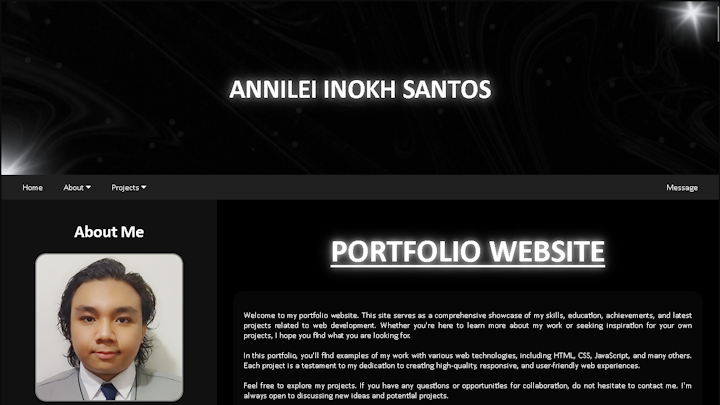
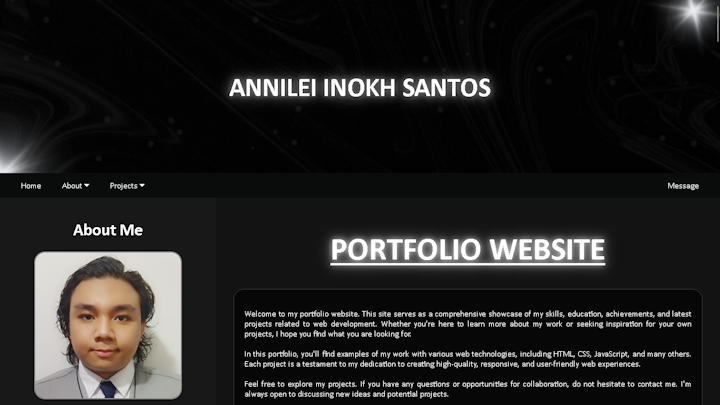
Add files via upload

diff --git a/style.css b/style.css
@@ -7,26 +7,6 @@ html {
   background-color: black;
 }
 
-/* Base container styling */
-.main-container {
-  margin: 0 auto;
-  padding: 3px;
-  max-width: 100%;
-  background-color: rgb(12, 12, 12); /* Dark background color *//
-}
-
-/* Responsive max-widths */
-@media (max-width: 480px) {
-  .main-container {
-    max-width: 100%; /* Full width for small screens */
-  }
-}
-
-@media (min-width: 481px) and (max-width: 768px) {
-  .main-container {
-    max-width: 100%; /* Max width for tablets */
-  }
-}
 
 a {
   color: rgb(0, 183, 255);
@@ -85,7 +65,7 @@ body {
 /* Style the top navigation bar */
 .navbar {
   overflow: hidden;
-  background-color: rgb(32, 32, 32);
+  background-color: #0a0b0b;
   width: 100%;
   box-sizing: border-box;
   margin: 0 auto;
@@ -184,7 +164,7 @@ body {
 /* Sidebar/left column */
 .side {
   flex: 30%;
-  background-color: #111111;
+  background-color: #181818;
   padding: 20px;
 }
 
@@ -210,6 +190,7 @@ body {
   padding: 20px; /* Padding inside the container */
   background-color: #070707; /* Dark background */
   color: white; /* Text color */
+  border: 1px solid rgb(56, 56, 56); /* Visible thin border */
   border-radius: 20px; /* Rounded corners */
   margin: 0 auto; /* Center horizontally */
   box-sizing: border-box; /* Include padding in the element's total width and height */
@@ -219,8 +200,9 @@ body {
 .text-container-main {
   max-width: 890px; /* Set the maximum width */
   padding: 20px; /* Padding inside the container */
-  background-color: #0a0a0a; /* Dark background */
+  background-color: #070707; /* Dark background */
   color: white; /* Text color */
+  border: 1px solid rgb(56, 56, 56); /* Visible thin border */
   border-radius: 20px; /* Rounded corners */
   margin: 0 auto; /* Center horizontally */
   box-sizing: border-box; /* Include padding in the element's total width and height */
@@ -236,6 +218,7 @@ body {
   max-width: 350px; /* Optional max width for responsiveness */
   padding: 45px;
   background-color: #070707; /* Dark background */
+  border: 1px solid rgb(56, 56, 56); /* Visible thin border */
   border-radius: 20px; /* Curved corners */
   margin: 0 auto; /* Center horizontally */
   margin-bottom: 10%;
@@ -299,7 +282,8 @@ body {
 .profile-image {
   width: 150px; /* Adjust the width as needed */
   height: 150px; /* Adjust the height as needed */
-  border: 5px solid #2c2c2c; /* Border for the images */
+  background-color: #070707; /* Dark background */
+  border: 5px solid rgb(56, 56, 56); /* Visible thin border */
   border-radius: 50%; /* Makes the image round */
   transition: opacity 0.3s ease;
 }
@@ -365,7 +349,7 @@ body {
 
 /* Main column */
 .main {
-  background-color: rgb(0, 0, 0);
+  background-color: #131313;
   padding: 20px;
   box-sizing: border-box; /* Ensures padding is included in the total width/height */
   width: 70%; /* Default width */
@@ -436,7 +420,7 @@ body {
 
 /* Footer */
 .site-footer {
-  background-color: #070707; /* Dark background */
+  background-color: #0a0b0b; /* Dark background */
   color: white;
   padding: 20px 0;
   text-align: center;

diff --git a/index.html b/index.html
@@ -8,7 +8,6 @@
 <link rel="stylesheet" href="https://cdnjs.cloudflare.com/ajax/libs/font-awesome/4.7.0/css/font-awesome.min.css">
 </head>
 <body id="portfolio">
-<div class="main-container">
 
   <div class="header">
     <h1 align="center">ANNILEI INOKH SANTOS</h1>
@@ -419,6 +418,5 @@
   </footer>
 
   <script src="script.js"></script>
-</div>
 </body>
 </html>

diff --git a/game-archive-style.css b/game-archive-style.css
@@ -108,7 +108,8 @@ a {
 
 /* Change color on hover */
 .navbar a:hover {
-  background-color: #101111;
+  background-color: #ddd;
+  color: black;
 }
 
 /* Responsive adjustments */
